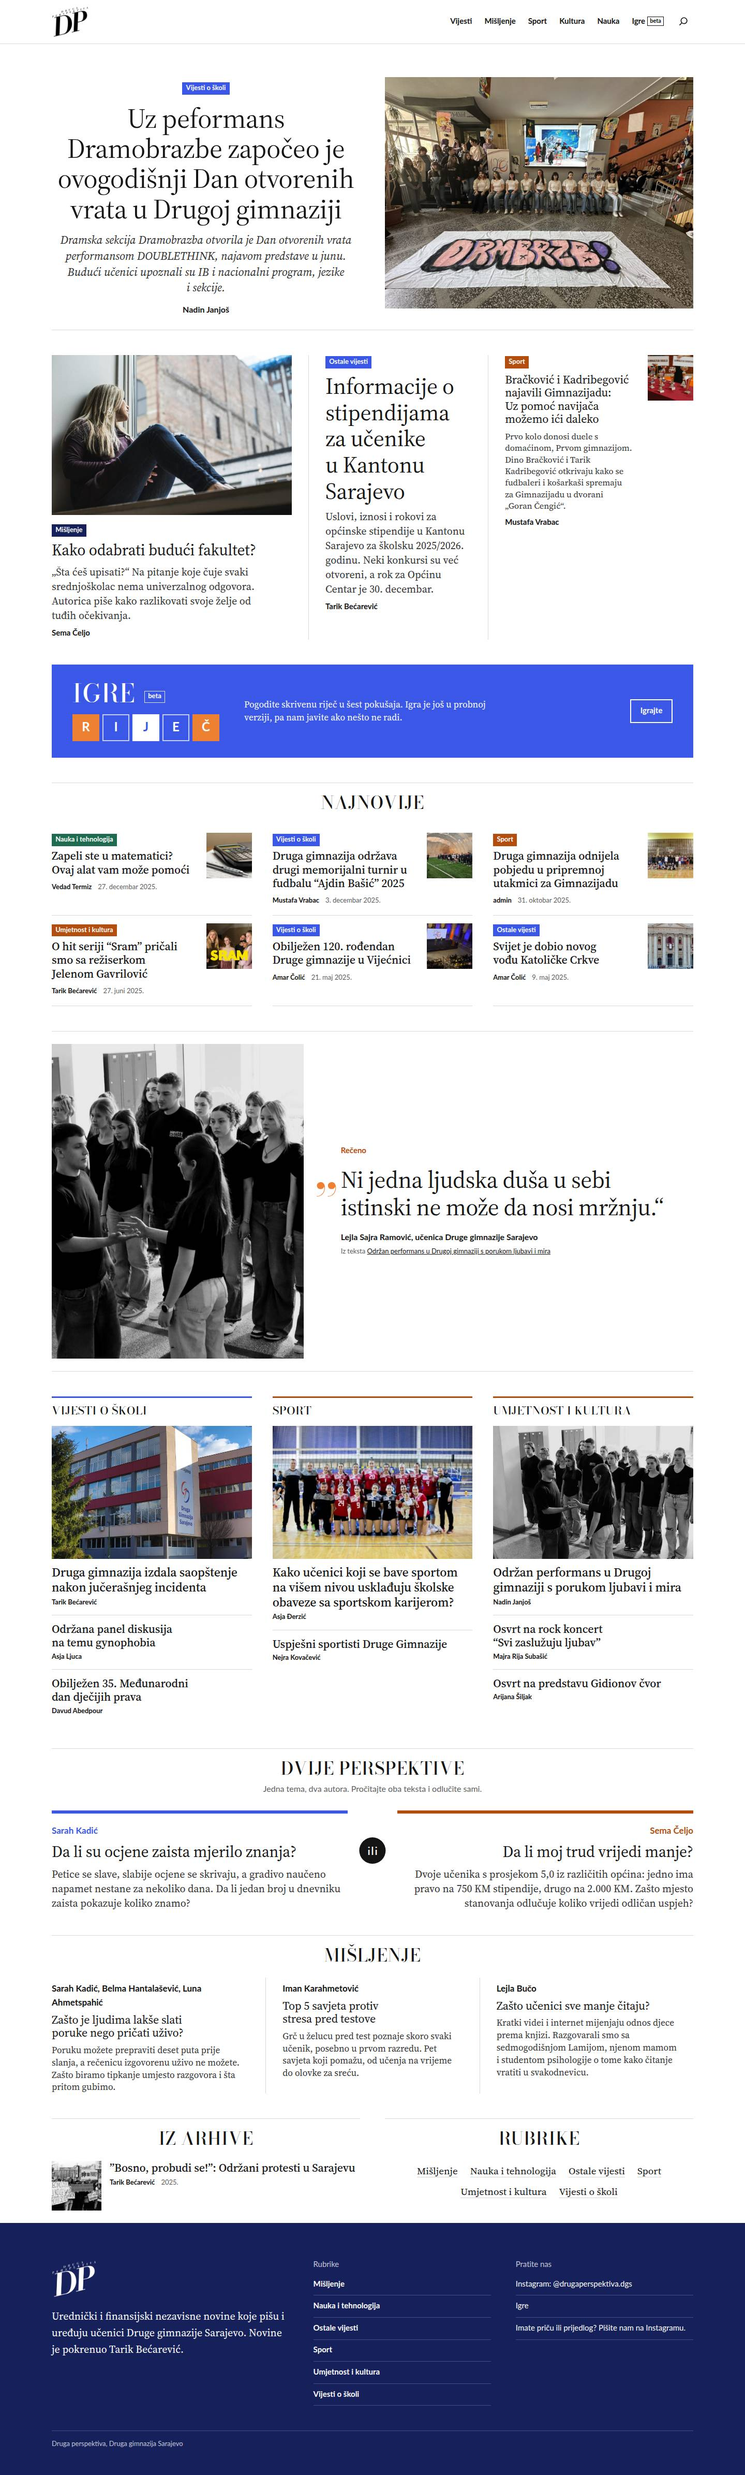
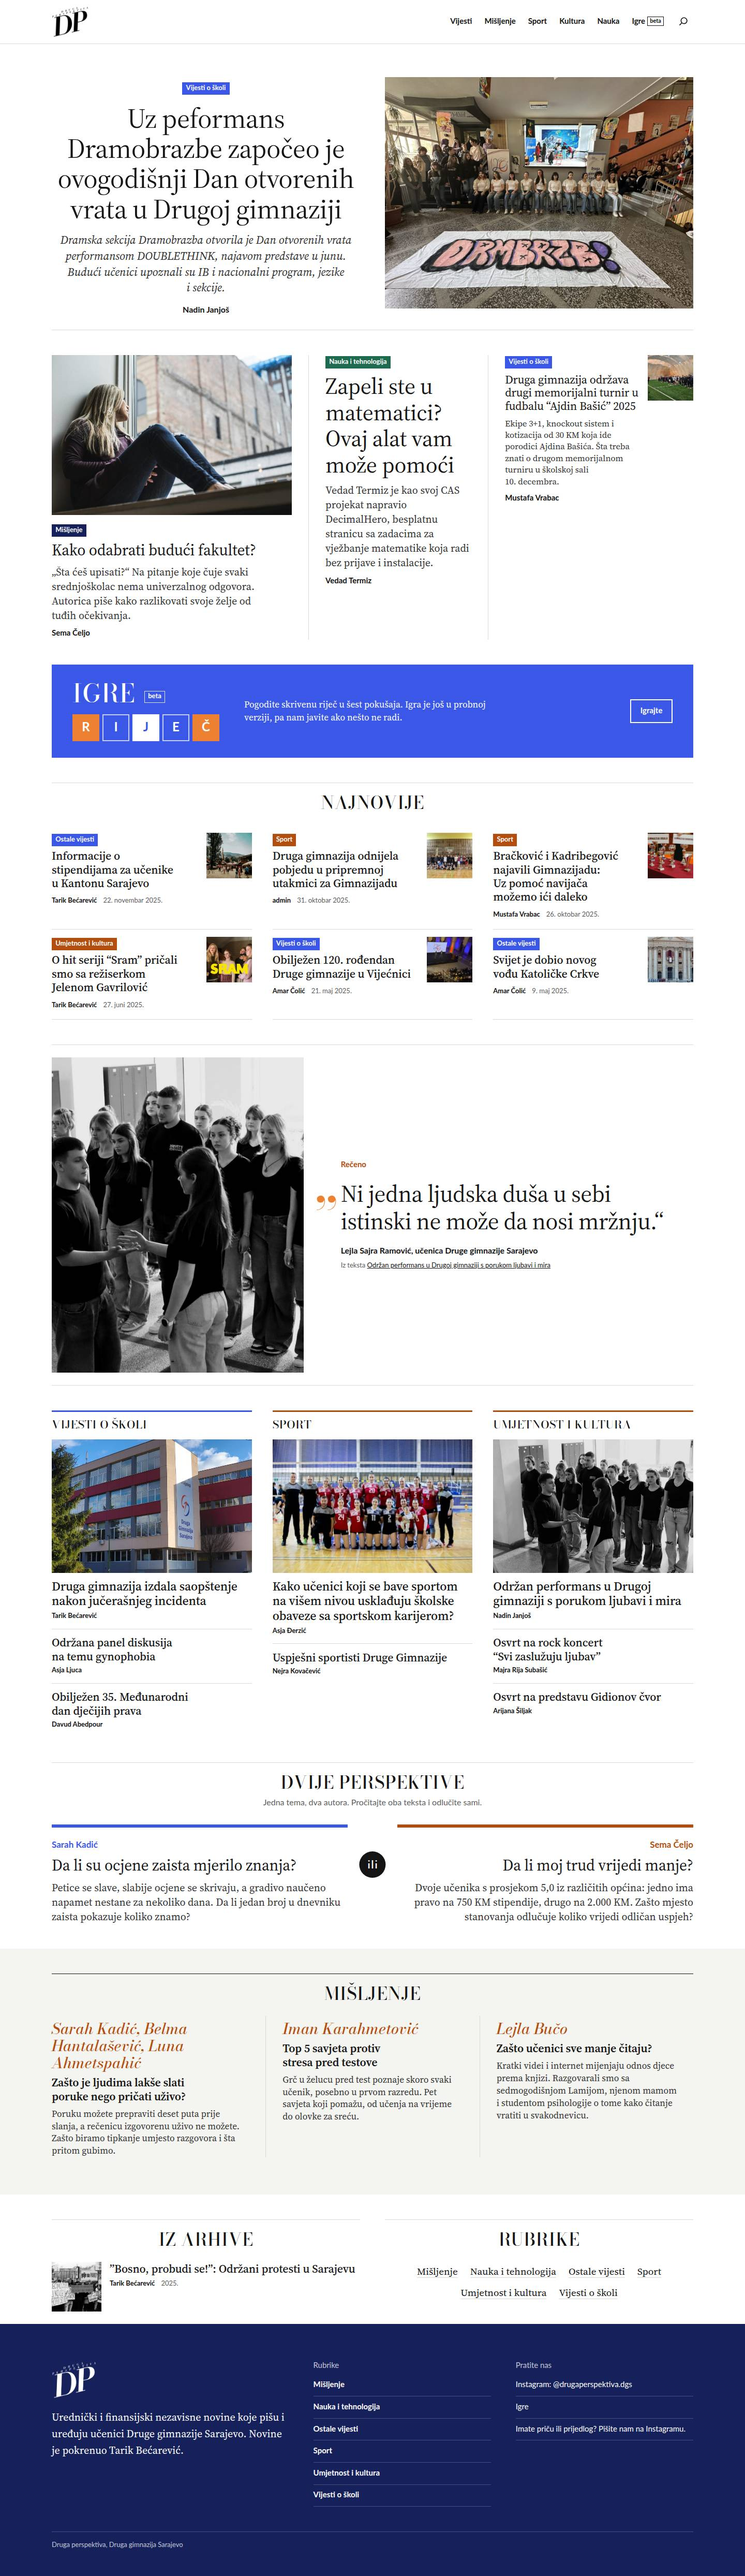
Chronological homepage; bring back the grey Mišljenje panel
- Lead is the newest post (or a sticky one); the three stories under it
  and Najnovije follow in strict date order instead of being picked from
  the Izdvojeno category. Izdvojeno now only feeds Iz arhive.
- Search results are ordered newest first.
- Mišljenje returns to the light grey panel with large orange italic
  author names.
- Version 1.8.0; install notes updated.

Claude-Session: https://claude.ai/code/session_01QPkDtEsER7FQnCPTtN3PAv

Changed region(s): [[0.0, 0.0312, 1.0, 0.9659], [0.4375, 0.4362, 0.875, 0.4985]]

diff --git a/druga-perspektiva/assets/css/theme.css b/druga-perspektiva/assets/css/theme.css
@@ -779,10 +779,19 @@ p {
 	font-size: var(--wp--preset--font-size--small);
 }
 
-/* ---------- Mišljenje: kolumne, ime autora prvo ---------- */
+/* ---------- Mišljenje: svijetlo siva ploha, ime autora prvo ---------- */
 
 .dp-opinion {
-	padding: 0 var(--dp-gutter);
+	background: var(--wp--preset--color--papir-2);
+	padding: var(--wp--preset--spacing--50) var(--dp-gutter) var(--wp--preset--spacing--60);
+}
+
+.dp-opinion .dp-module-heading {
+	border-top-color: var(--wp--preset--color--tinta);
+}
+
+.dp-opinion .dp-module-heading a:hover {
+	color: var(--wp--preset--color--narandza-chip);
 }
 
 .dp-opinion-list > li {
@@ -796,12 +805,21 @@ p {
 }
 
 .dp-opinion-author {
-	font-size: 1.0625rem;
-	margin-bottom: 0.4rem;
+	margin-bottom: 0.5rem;
+	font-family: var(--dp-display);
+	font-optical-sizing: none;
+	font-variation-settings: "opsz" 16;
+	font-style: italic;
+	font-weight: 500;
+	font-size: clamp(1.5rem, 1.2rem + 1vw, 1.875rem);
+	line-height: 1.1;
+	color: var(--wp--preset--color--narandza-chip);
 }
 
 .dp-opinion .wp-block-post-title {
 	margin: 0;
+	font-weight: 600;
+	line-height: 1.2;
 }
 
 .dp-opinion .dp-standfirst {

diff --git a/druga-perspektiva/style.css b/druga-perspektiva/style.css
@@ -6,7 +6,7 @@ Description: Blok tema za učeničke novine Druga perspektiva (Druga gimnazija S
 Requires at least: 6.6
 Tested up to: 7.1
 Requires PHP: 7.4
-Version: 1.7.0
+Version: 1.8.0
 License: GNU General Public License v2 or later
 License URI: http://www.gnu.org/licenses/gpl-2.0.html
 Text Domain: druga-perspektiva

diff --git a/druga-perspektiva/functions.php b/druga-perspektiva/functions.php
@@ -488,10 +488,8 @@ function dp_post_ids( $args ) {
 
 /**
  * Raspored naslovnice, izračunat jednom po učitavanju:
- * - glavna priča: zalijepljeni (sticky) članak, inače najnoviji "Izdvojeno",
- *   inače najnoviji članak;
- * - izdvojeni: sljedeća tri "Izdvojeno", dopunjeno najnovijim;
- * - najnovije: pet najnovijih koji nisu već prikazani;
+ * - glavna priča: zalijepljeni (sticky) članak, inače najnoviji članak;
+ * - izdvojeni i najnovije: sljedećih 3 + 6 članaka, strogo od najnovijeg;
  * - mišljenje: tri najnovija iz rubrike Mišljenje koja nisu već prikazana;
  * - iz arhive: jedan izdvojeni stariji od šest mjeseci, mijenja se svaki dan.
  */
@@ -512,10 +510,6 @@ function dp_home_layout() {
 		$ids  = dp_post_ids( array( 'post__in' => $sticky, 'numberposts' => 1 ) );
 		$lead = $ids ? $ids[0] : 0;
 	}
-	if ( ! $lead && $featured ) {
-		$ids  = dp_post_ids( array( 'cat' => $featured->term_id, 'numberposts' => 1 ) );
-		$lead = $ids ? $ids[0] : 0;
-	}
 	if ( ! $lead ) {
 		$ids  = dp_post_ids( array( 'numberposts' => 1 ) );
 		$lead = $ids ? $ids[0] : 0;
@@ -529,20 +523,15 @@ function dp_home_layout() {
 	$debate = 2 === count( $debate ) ? $debate : array();
 	$shown  = array_merge( $shown, $debate );
 
-	// Izdvojeni.
-	$features = $featured ? dp_post_ids( array( 'cat' => $featured->term_id, 'numberposts' => 3, 'post__not_in' => $shown ) ) : array();
-	if ( count( $features ) < 3 ) {
-		$features = array_merge( $features, dp_post_ids( array( 'numberposts' => 3 - count( $features ), 'post__not_in' => array_merge( $shown, $features ) ) ) );
-	}
-	$shown = array_merge( $shown, $features );
+	// Izdvojeni i Najnovije: redom od najnovijeg, bez preskakanja.
+	$stream   = dp_post_ids( array( 'numberposts' => 9, 'post__not_in' => $shown ) );
+	$features = array_slice( $stream, 0, 3 );
+	$latest   = array_slice( $stream, 3, 6 );
+	$shown    = array_merge( $shown, $stream );
 
-	// Mišljenje (prije liste najnovijih, da kolumne ostanu u svom bloku).
+	// Mišljenje: najnovije kolumne koje već nisu gore.
 	$opinions = $opinion ? dp_post_ids( array( 'cat' => $opinion->term_id, 'numberposts' => 3, 'post__not_in' => $shown ) ) : array();
 	$shown    = array_merge( $shown, $opinions );
-
-	// Najnovije.
-	$latest = dp_post_ids( array( 'numberposts' => 6, 'post__not_in' => $shown ) );
-	$shown  = array_merge( $shown, $latest );
 
 	// Rubrike: po tri teksta iz svake, bez onih koji su već gore.
 	$sections = array();
@@ -819,10 +808,12 @@ add_filter(
 	}
 );
 
-/** Pretraga traži samo članke, ne stranice i priloge. */
+/** Pretraga traži samo članke (ne stranice i priloge), od najnovijeg. */
 function dp_search_posts_only( $query ) {
 	if ( ! is_admin() && $query->is_main_query() && $query->is_search() ) {
 		$query->set( 'post_type', 'post' );
+		$query->set( 'orderby', 'date' );
+		$query->set( 'order', 'DESC' );
 	}
 }
 add_action( 'pre_get_posts', 'dp_search_posts_only' );

diff --git a/INSTALL.md b/INSTALL.md
@@ -38,12 +38,11 @@ Stranice "Homepage", "Homepage 2…4", "Checkout", "My account" i "Login/Registe
 
 ## 6. Kako naslovnica bira članke
 
-- **Glavna priča:** članak označen kao "Zalijepljen" (Sticky, u desnoj koloni članka). Ako takvog nema, najnoviji članak iz kategorije **Izdvojeno**, a ako ni njega nema, najnoviji članak.
-- **Tri izdvojena teksta:** sljedeći članci iz **Izdvojeno**.
-- **Najnovije:** šest najnovijih tekstova koji već nisu gore.
+- **Glavna priča:** najnoviji članak. Ako želite da neki drugi članak bude gore, u članku u desnoj koloni uključite **Zalijepi na vrh** (Sticky).
+- **Tri teksta ispod glavne priče i Najnovije:** sljedećih devet članaka, strogo od najnovijeg prema starijem.
 - **Rubrike (Vijesti o školi, Sport, Umjetnost i kultura):** po tri teksta iz svake rubrike. Koje se rubrike prikazuju mijenja se u `functions.php` (`DP_HOME_SECTIONS`) i u šablonu naslovnice.
 - **Mišljenje:** najnoviji tekstovi iz rubrike Mišljenje koji već nisu gore.
-- **Iz arhive:** jedan stariji izdvojeni tekst, mijenja se svaki dan.
+- **Iz arhive:** jedan stariji tekst iz kategorije **Izdvojeno**, mijenja se svaki dan.
 
 Ako neki modul nema dovoljno članaka, ne prikazuje se (nema praznih naslova).
 
